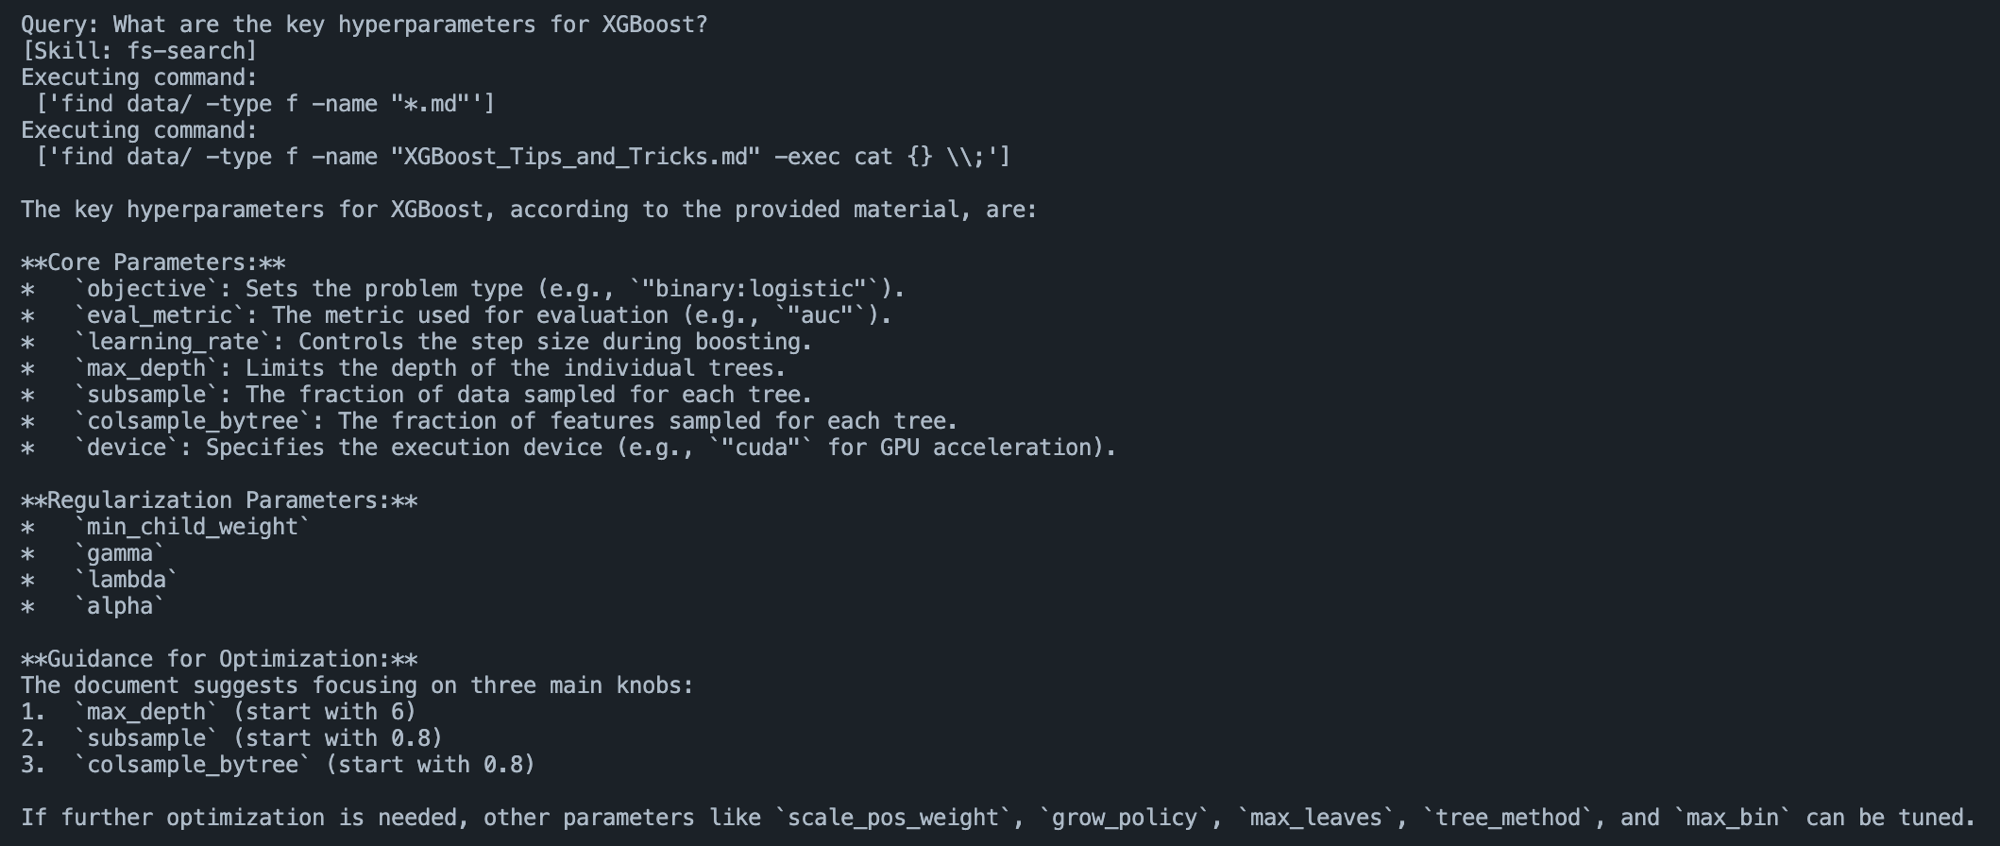
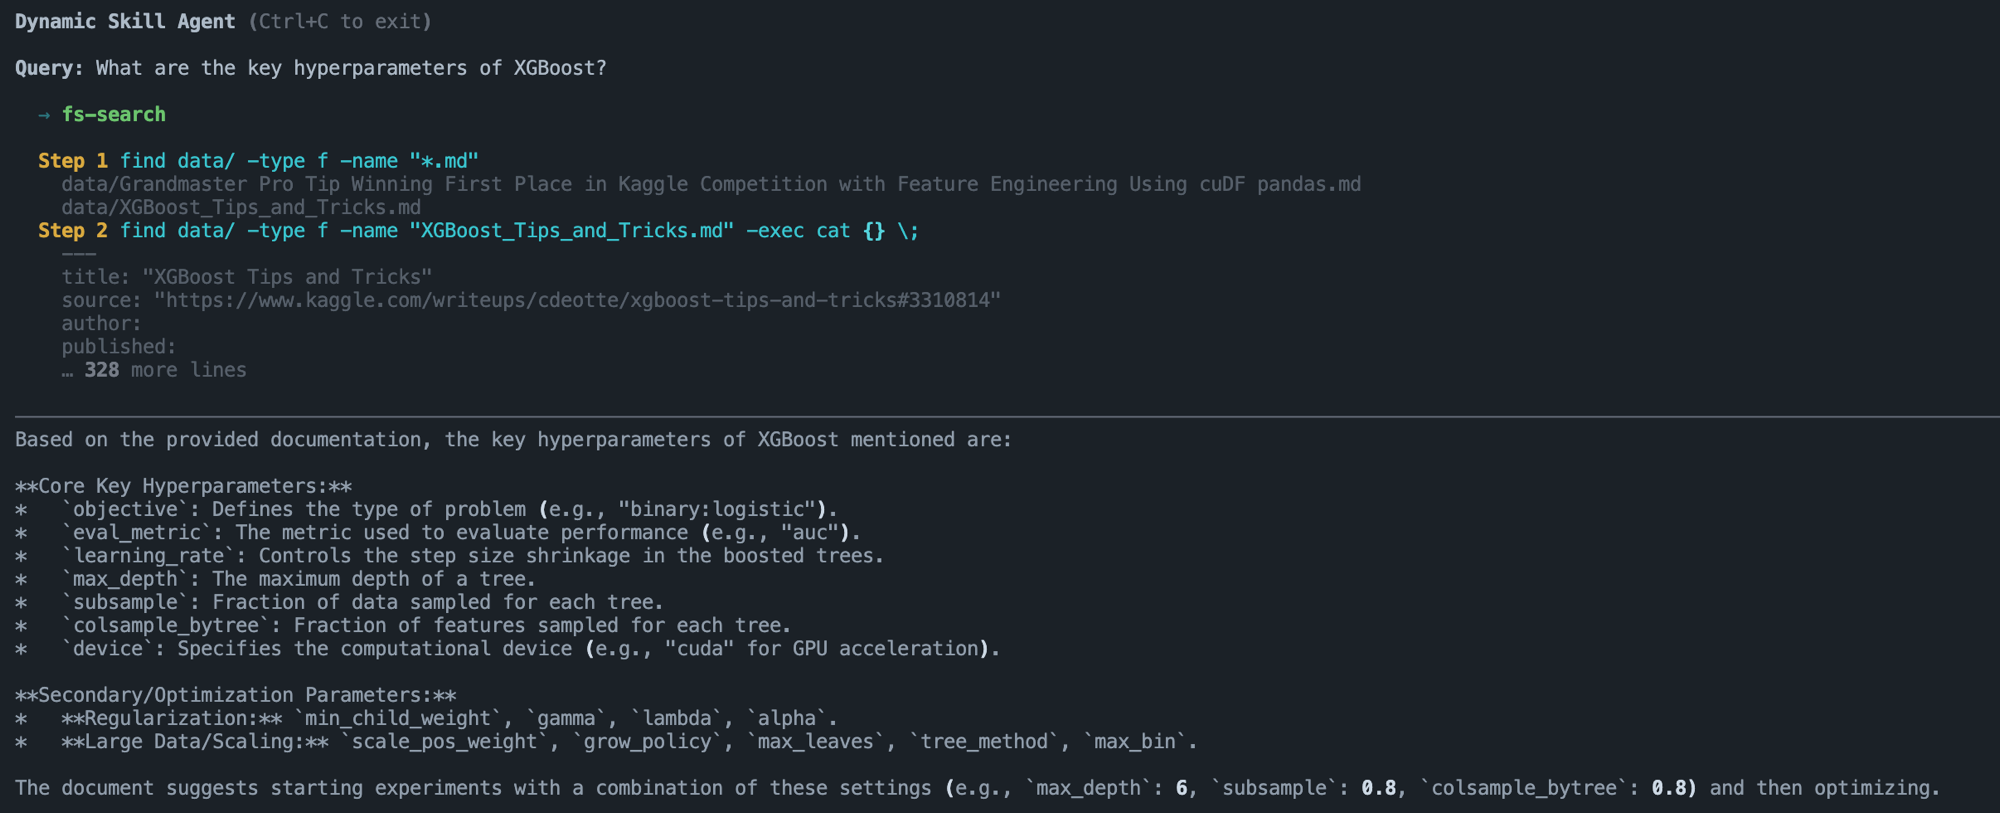
Update README and demo screenshot to reflect rich terminal UI

diff --git a/README.md b/README.md
@@ -23,15 +23,15 @@ User Query
                                    │  + ShellTool    │
                                    └────────┬────────┘
                                             │
-                              Thought → Action → Observation
+                                 Step 1 → Step 2 → …
                                             │
                                             ▼
                                         Answer
 ```
 
-1. **Router** — a lightweight LLM call selects the best skill based on the skill descriptions and the user's query
+1. **Router** — a lightweight LLM call selects the best skill based on skill descriptions and the user's query. Uses a separate, smaller model for speed.
 2. **SkillRegistry** — loads all `skills/*.md` files at startup, parsing frontmatter (`name`, `description`) and body (system prompt)
-3. **Agent** — `create_agent()` receives the selected skill's content as `system_prompt` and `ShellTool` for executing shell commands in the `data/` directory
+3. **Agent** — `create_agent()` receives the selected skill's content as `system_prompt` and `ShellTool` for executing shell commands in the `data/` directory. Each step is printed live as it executes.
 
 ## Project Structure
 
@@ -57,9 +57,9 @@ description: Exact search within the filesystem. Use for known filenames, exact 
 You are a search agent ...
 ```
 
-| Field         | Purpose                                                     |
-|---------------|-------------------------------------------------------------|
-| `name`        | Unique identifier used for routing and lookup               |
+| Field         | Purpose                                                      |
+|---------------|--------------------------------------------------------------|
+| `name`        | Unique identifier used for routing and lookup                |
 | `description` | One-line summary shown to the router LLM for skill selection |
 | Body          | Full system prompt injected into the agent at runtime        |
 
@@ -67,9 +67,10 @@ You are a search agent ...
 
 ## Prerequisites
 
-- [Ollama](https://ollama.com) running locally with your model pulled:
+- [Ollama](https://ollama.com) running locally with your models pulled:
   ```bash
-  ollama pull gemma4:e4b-nvfp4
+  ollama pull gemma4:e4b-nvfp4       # agent model
+  ollama pull lfm2.5-thinking:1.2b   # router model
   ```
 - [uv](https://docs.astral.sh/uv/) for dependency management
 
@@ -87,19 +88,32 @@ uv sync
 uv run main.py
 ```
 
+The terminal shows routing and each execution step live:
+
 ```
-Dynamic Skill Agent (Ctrl+C to exit)
+Dynamic Skill Agent  (Ctrl+C to exit)
 
 Query: What are the key hyperparameters for XGBoost?
-[Skill: fs-search]
-Executing command: find data/ -type f -name "*.md"
-...
+
+  → fs-search
+
+  Step 1  find data/ -type f -name "*.md"
+          data/Grandmaster Pro Tip...md
+          data/XGBoost_Tips_and_Tricks.md
+
+  Step 2  find data/ -type f -name "XGBoost_Tips_and_Tricks.md" -exec cat {} \;
+          ...
+          328 more lines
+
+──────────────────────────────────────────────────────
+The key hyperparameters for XGBoost are: objective, eval_metric, ...
 ```
 
-To change the model, update the `model` parameter in `main.py`:
+To use different models, update the `router` and `llm` parameters in `main.py`:
 
 ```python
-llm = ChatOllama(model="your-model-name")
+router = ChatOllama(model="your-router-model")
+llm = ChatOllama(model="your-agent-model")
 ```
 
 ## Dependencies
@@ -110,3 +124,4 @@ llm = ChatOllama(model="your-model-name")
 | `langchain-community`    | ≥ 0.4.1   |
 | `langchain-ollama`       | ≥ 1.1.0   |
 | `langchain-experimental` | ≥ 0.4.1   |
+| `rich`                   | ≥ 15.0.0  |
